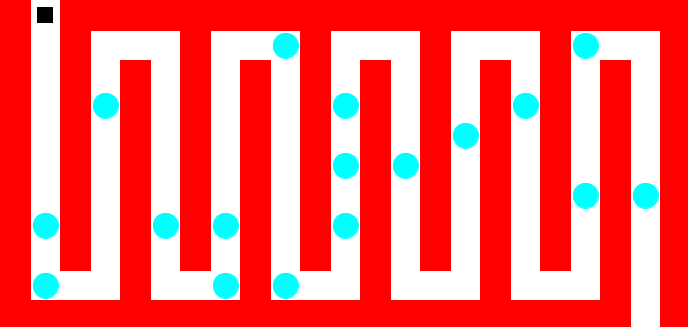
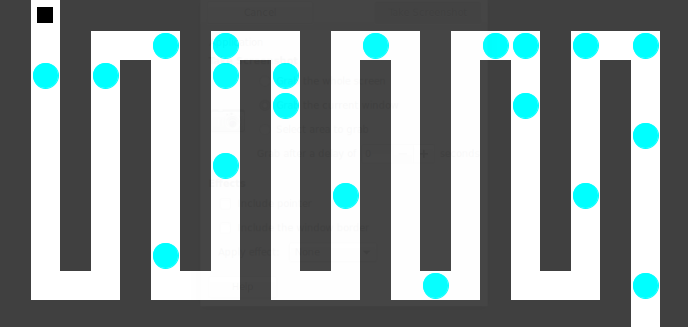
kartan vaihto ja liikkumisen korjaus

diff --git a/CollectorGame/src/main/java/collectorgameLogic/Player.java b/CollectorGame/src/main/java/collectorgameLogic/Player.java
@@ -26,8 +26,10 @@ public class Player {
         this.dx = 0;
         this.dy = 0;
     }
+
     /**
      * Luokan konstruktori.
+     *
      * @param map Kartta minkä luokka saa parametrina.
      */
     public Player(Tile[][] map) {
@@ -38,13 +40,42 @@ public class Player {
         this.dx = 0;
         this.dy = 0;
     }
+
     /**
      * Palauttaa hahmon sijainnin.
+     *
      * @return Palauttaa x- ja y-koordinaatit.
      */
     public String getLocation() {
         return this.x + "," + this.y;
     }
+
+    /**
+     * Tarkistaa onko pelaajan liikkuminen sallittua.
+     * @return Palauttaa true jos on ja false jos ei ole.
+     */
+    
+    public boolean movementAllowed() {
+        if (this.dx == -1) {
+            if (map[this.y][this.x-1].getWall()) {
+                return false;
+            }
+        } else if (this.dx == 1) {
+            if (map[this.y][this.x +1].getWall()) {
+                return false;
+            }
+        } else if (this.dy == -1) {
+            if (map[this.y-1][this.x].getWall()) {
+                return false;
+            }
+        } else if (this.dy == 1) {
+            if (map[this.y+1][this.x].getWall()) {
+                return false;
+            }
+        }
+        return true;
+    }
+
     /**
      * Liikuttaa pelaajaa vasemmalle.
      */
@@ -55,6 +86,7 @@ public class Player {
             this.score -= 50;
         }
     }
+
     /**
      * Liikuttaa pelaajaa oikealle.
      */
@@ -65,6 +97,7 @@ public class Player {
             this.score -= 50;
         }
     }
+
     /**
      * Liikuttaa pelaajaa ylös.
      */
@@ -75,6 +108,7 @@ public class Player {
             this.score -= 50;
         }
     }
+
     /**
      * Liikuttaa pelaajaa alas.
      */
@@ -85,6 +119,7 @@ public class Player {
             this.score -= 50;
         }
     }
+
     /**
      * Poimii esineen jos ruudussa on esine, muuten vähentää pisteitä.
      */
@@ -100,8 +135,10 @@ public class Player {
     public int getScore() {
         return this.score;
     }
+
     /**
      * Lisää tai vähentää tuloksesta pisteitä.
+     *
      * @param score Lisättävien tai vähennettävien pisteiden määrä.
      */
     public void addScore(int score) {
@@ -111,17 +148,22 @@ public class Player {
             this.score += score;
         }
     }
+
     /**
      * Uudistaa pelaajan sijainnin ja muuttaa x- sekä y-koordinaattien arvoja.
      */
     public void updatePosition() {
-        this.map[this.y][this.x].setOrRemovePlayer(false);
-        this.x += this.dx;
-        this.y += this.dy;
-        this.map[this.y][this.x].setOrRemovePlayer(true);
+        if (movementAllowed()) {
+            this.map[this.y][this.x].setOrRemovePlayer(false);
+            this.x += this.dx;
+            this.y += this.dy;
+            this.map[this.y][this.x].setOrRemovePlayer(true);
+        }
     }
+
     /**
      * Toimii painettujen näppäinten perusteella.
+     *
      * @param e Näppäin mitä on painettu.
      */
     public void keyPressed(KeyEvent e) {
@@ -148,8 +190,10 @@ public class Player {
             pickUpItem();
         }
     }
+
     /**
      * Seuraa sitä, kun näppäin vapautuu ja toimii sen mukaan.
+     *
      * @param e Vapautunut näppäin.
      */
     public void keyReleased(KeyEvent e) {
@@ -171,16 +215,19 @@ public class Player {
         if (key == KeyEvent.VK_DOWN) {
             this.dy = 0;
         }
-        
+
         if (key == KeyEvent.VK_Z) {
             this.dx = 0;
         }
     }
+
     /**
      * Palauttaa kartan.
+     *
      * @return Kartta.
      */
     public Tile[][] returnMap() {
         return this.map;
     }
+
 }

diff --git a/CollectorGame/src/main/java/collectorgameUI/Board.java b/CollectorGame/src/main/java/collectorgameUI/Board.java
@@ -41,7 +41,7 @@ public class Board extends JPanel implements ActionListener {
         setFocusable(true);
         addKeyListener(new TAdapter());
 
-        this.timer = new Timer(150, this);
+        this.timer = new Timer(130, this);
         timer.start();
     }
 
@@ -82,7 +82,7 @@ public class Board extends JPanel implements ActionListener {
                 int sijaintiX = x * 30;
                 int sijaintiY = y * 30;
                 if (map[y][x].getWall()) {
-                    g2d.setPaint(Color.red);
+                    g2d.setPaint(Color.darkGray);
                     g2d.drawRect(sijaintiX, sijaintiY, 30, 30);
                     g2d.fillRect(sijaintiX, sijaintiY, 30, 30);
                 } else if (map[y][x].getItem() == true && map[y][x].getPlayer() == true) {
